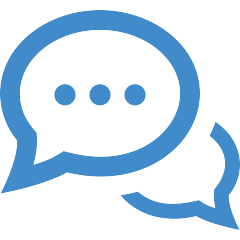
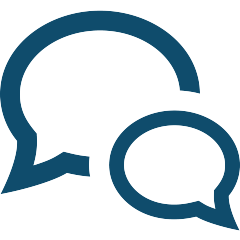
new resources view, changed footer, scorecard preview, changed color of blue

diff --git a/index.html b/index.html
@@ -8,7 +8,7 @@
     <meta name="description" content="">
     <meta name="author" content="">
 
-    <title>Scrolling Nav - Start Bootstrap Template</title>
+    <title>Mobile Teacher Splash Page</title>
 
     <!-- Bootstrap core CSS -->
     <link href="vendor/bootstrap/css/bootstrap.min.css" rel="stylesheet">
@@ -22,8 +22,6 @@
 
     <!-- Navigation -->
     <nav class="navbar navbar-expand-lg navbar-dark bg-dark fixed-top" id="mainNav">
-      <div class="container">
-        <img src="/img/logo.png" width="50" height="50">
         <button class="navbar-toggler" type="button" data-toggle="collapse" data-target="#navbarResponsive" aria-controls="navbarResponsive" aria-expanded="false" aria-label="Toggle navigation">
           <span class="navbar-toggler-icon"></span>
         </button>
@@ -44,14 +42,18 @@
             <li class="nav-item">
               <a class="nav-link js-scroll-trigger" href="#platform">Platform</a>
             </li>
+            <li class="nav-item">
+              <a class="nav-link js-scroll-trigger" href="#scorecard">Scorecard</a>
+            </li>
           </ul>
         </div>
       </div>
     </nav>
 
-    <header class="bg-primary text-white">
+    <header class="text-white" style="background-color: #0f4c6c;">
       <div class="container text-center">
         <h1>Welcome to Mobile Teacher</h1>
+        <img src="/img/logo.png" width="240" height="240">
         <p class="lead">Watch. Teach. Share.</p>
       </div>
     </header>
@@ -131,17 +133,17 @@
           <div class="col-lg-8 mx-auto">
             <h1>Contribute</h1>
             <p class="lead"><h3>Requirements</h3>
-Your video is…
-<ul>
-<li>2 minutes or shorter</li>
-<li>Shows a teacher who works in a developing country</li>
-<li>Shows a good idea for teaching</li>
-<li>Is in clear, simple English or has a transcript file written in English</li>
-</ul>
-</p>
-<a href="https://docs.google.com/forms/d/1ojgGZX6K4XeZvpdfLWEWdmO6mn_i62tLmrWAV0uVAMo/edit?usp=sharing">
-<button type="button" class="btn btn-primary">Submit a Video</button>
-</a>
+              Your video is…
+              <ul>
+                <li>2 minutes or shorter</li>
+                <li>Shows a teacher who works in a developing country</li>
+                <li>Shows a good idea for teaching</li>
+                <li>Is in clear, simple English or has a transcript file written in English</li>
+              </ul>
+              </p>
+                <a href="https://docs.google.com/forms/d/1ojgGZX6K4XeZvpdfLWEWdmO6mn_i62tLmrWAV0uVAMo/edit?usp=sharing">
+                <button type="button" class="btn text-white" style="background-color: #0f4c6c">Submit a Video</button>
+              </a>
           </div>
         </div>
       </div>
@@ -162,20 +164,64 @@ Your video is…
             YouTube Go gives you:
             Short video preview first.  If you like the video, you can watch or download it.
             Video file size information.  Decide if you want to use your data to get the video.
-            Offline sharing. Get more videos from your friends offline.
-</p>
+            Offline sharing. Get more videos from your friends offline.</p>
+          </div>
+        </div>
+      </div>
+    </section>
+
+    <section id="scorecard">
+      <div class="container">
+        <div class="row">
+          <div class="col-lg-8 mx-auto">
+            <h1>A Scorecard of Best Practices</h2>
+            <p class="lead">Brief description of the scorecard.
+              <br /> <br />
+              <h3> About the Scorecard </h3> <br/>
+              
+              These guidelines were developed using multiple...
+
+              Those can be found linked <a href="./resources.html" target="_blank">here</a>.
+
+              <br /> <br />
+              <embed src="./scorecard.pdf" type="application/pdf" width="100%" height="600px" />
+            </p>
           </div>
         </div>
       </div>
     </section>
 
     <!-- Footer -->
-    <footer class="py-5 bg-dark">
-      <div class="container">
-        <p class="m-0 text-center text-white">Copyright &copy; Mobile Teacher 2018</p>
+    <div class="bg-dark">
+    <footer class="container py-5 bg-dark" style="margin:0 auto;width:50%;">
+      <div class="row">
+        <div class="col-6 col-md">
+          <h5 class="text-white">Follow us...</h5>
+          <ul class="list-unstyled text-small">
+            <li><a class="text-muted" href="https://youtube.com/mobileteacher">YouTube</a></li>
+            <li><a class="text-muted" href="https://twitter.com/_mobileteacher">Twitter</a></li>
+            <li><a class="text-muted" href="https://www.instagram.com/mobileteacher/">Instagram</a></li>
+            <li><a class="text-muted" href="https://www.facebook.com/mobileteacher.org/">Facebook</a></li>
+          </ul>
+        </div>
+        <div class="col-6 col-md">
+          <h5 class="text-white">The Team</h5>
+          <ul class="list-unstyled text-small">
+            <li><a class="text-muted">Katherine Guevara</a></li>
+            <li><a class="text-muted">William Durkee</a></li>
+            <li><a class="text-muted">Sachet Vijay</a></li>
+            <li><a class="text-muted">Tim Malaney</a></li>
+          </ul>
+        </div>
+        <div class="col-6 col-md">
+          <h5 class="text-white">Contact Us</h5>
+          <ul class="list-unstyled text-small">
+            <li><a class="text-muted" href="mailto:mobileteacher.org@gmail.com">Mail</a></li>
+          </ul>
+        </div>
       </div>
-      <!-- /.container -->
     </footer>
+    </div>
 
     <!-- Bootstrap core JavaScript -->
     <script src="vendor/jquery/jquery.min.js"></script>

diff --git a/resources.html b/resources.html
@@ -1,0 +1,81 @@
+<!DOCTYPE html>
+<html lang="en">
+
+  <head>
+
+    <meta charset="utf-8">
+    <meta name="viewport" content="width=device-width, initial-scale=1, shrink-to-fit=no">
+    <meta name="description" content="">
+    <meta name="author" content="">
+
+    <title>Links to other research</title>
+
+    <!-- Bootstrap core CSS -->
+    <link href="vendor/bootstrap/css/bootstrap.min.css" rel="stylesheet">
+
+    <!-- Custom styles for this template -->
+    <link href="css/scrolling-nav.css" rel="stylesheet">
+
+  </head>
+
+  <body class="container">
+  <br />
+  <br />
+  <br />
+  <h1>Links to guidelines.</h1>
+  <br />
+  <br />
+  <h3>Android</h3>
+    <ul>
+      <li>
+        <a href="https://developer.android.com/topic/billions/" target="_blank">Android Developers Documentation: Build for Billions</a>
+      </li>
+      <li>
+        <a href="https://play.google.com/books/reader?id=cJEjDAAAQBAJ&hl=en&pg=GBS.PP1" target="_blank">Android The Building for Billions Playbook (for Developers)</a>
+      </li>
+    </ul>
+
+  <h3>Google</h3>
+    <ul>
+      <li>
+        <a href="https://design.google/library/ux-next-billion-users/" target="_blank">Google UX for the Next Billion Users (NBU)</a>
+      </li>
+      <li>
+        <a href="https://design.google/library/beyond-desktop-research-immersion-trip/" target="_blank">Beyond Desktop Research: The Immersion Trip</a>
+      </li>
+      <li>
+        <a href="https://design.google/library/connectivity-culture-and-credit/" target="_blank">Connectivity, Culture, and Credit</a>
+      </li>
+      <li>
+        <a href="https://design.google/library/designing-global-accessibility-part-1/" target="_blank">Designing for Global Accessibility Part I</a>
+      </li>
+      <li>
+        <a href="https://design.google/library/designing-global-accessibility-part-2/" target="_blank">Designing for Global Accessibility Part II</a>
+      </li>
+      <li>
+        <a href="https://design.google/library/designing-global-accessibility-part-iii/" target="_blank">Designing for Global Accessibility Part III</a>
+      </li>
+      <li>
+        <a href="https://design.google/library/offline-design/" target="_blank">Design for Offline</a>
+      </li>
+      <li>
+        <a href="https://design.google/library/making-youtube-go/" target="_blank">The Making of YouTube Go</a>
+      </li>
+      <li>
+        <a href="https://design.google/library/sketch-scroll-or-swipe/" target="_blank">Sketch, Scroll, or Swipe?</a>
+      </li>
+      <li>
+        <a href="https://design.google/library/survey-methods-connecting-global-audience/" target="_blank">Survey Methods: Connecting with a Global Audience</a>
+      </li>
+    </ul>
+
+  <h3>UNESCO</h3>
+    <ul>
+      <li>
+        <a href="http://unesdoc.unesco.org/images/0026/002655/265537E.pdf" target="_blank">UNESCO Guidelines: Designing Inclusive Digital Solutions and Developing Digital Skills</a>
+      </li>
+    </ul>
+
+  </body>
+
+</html>
